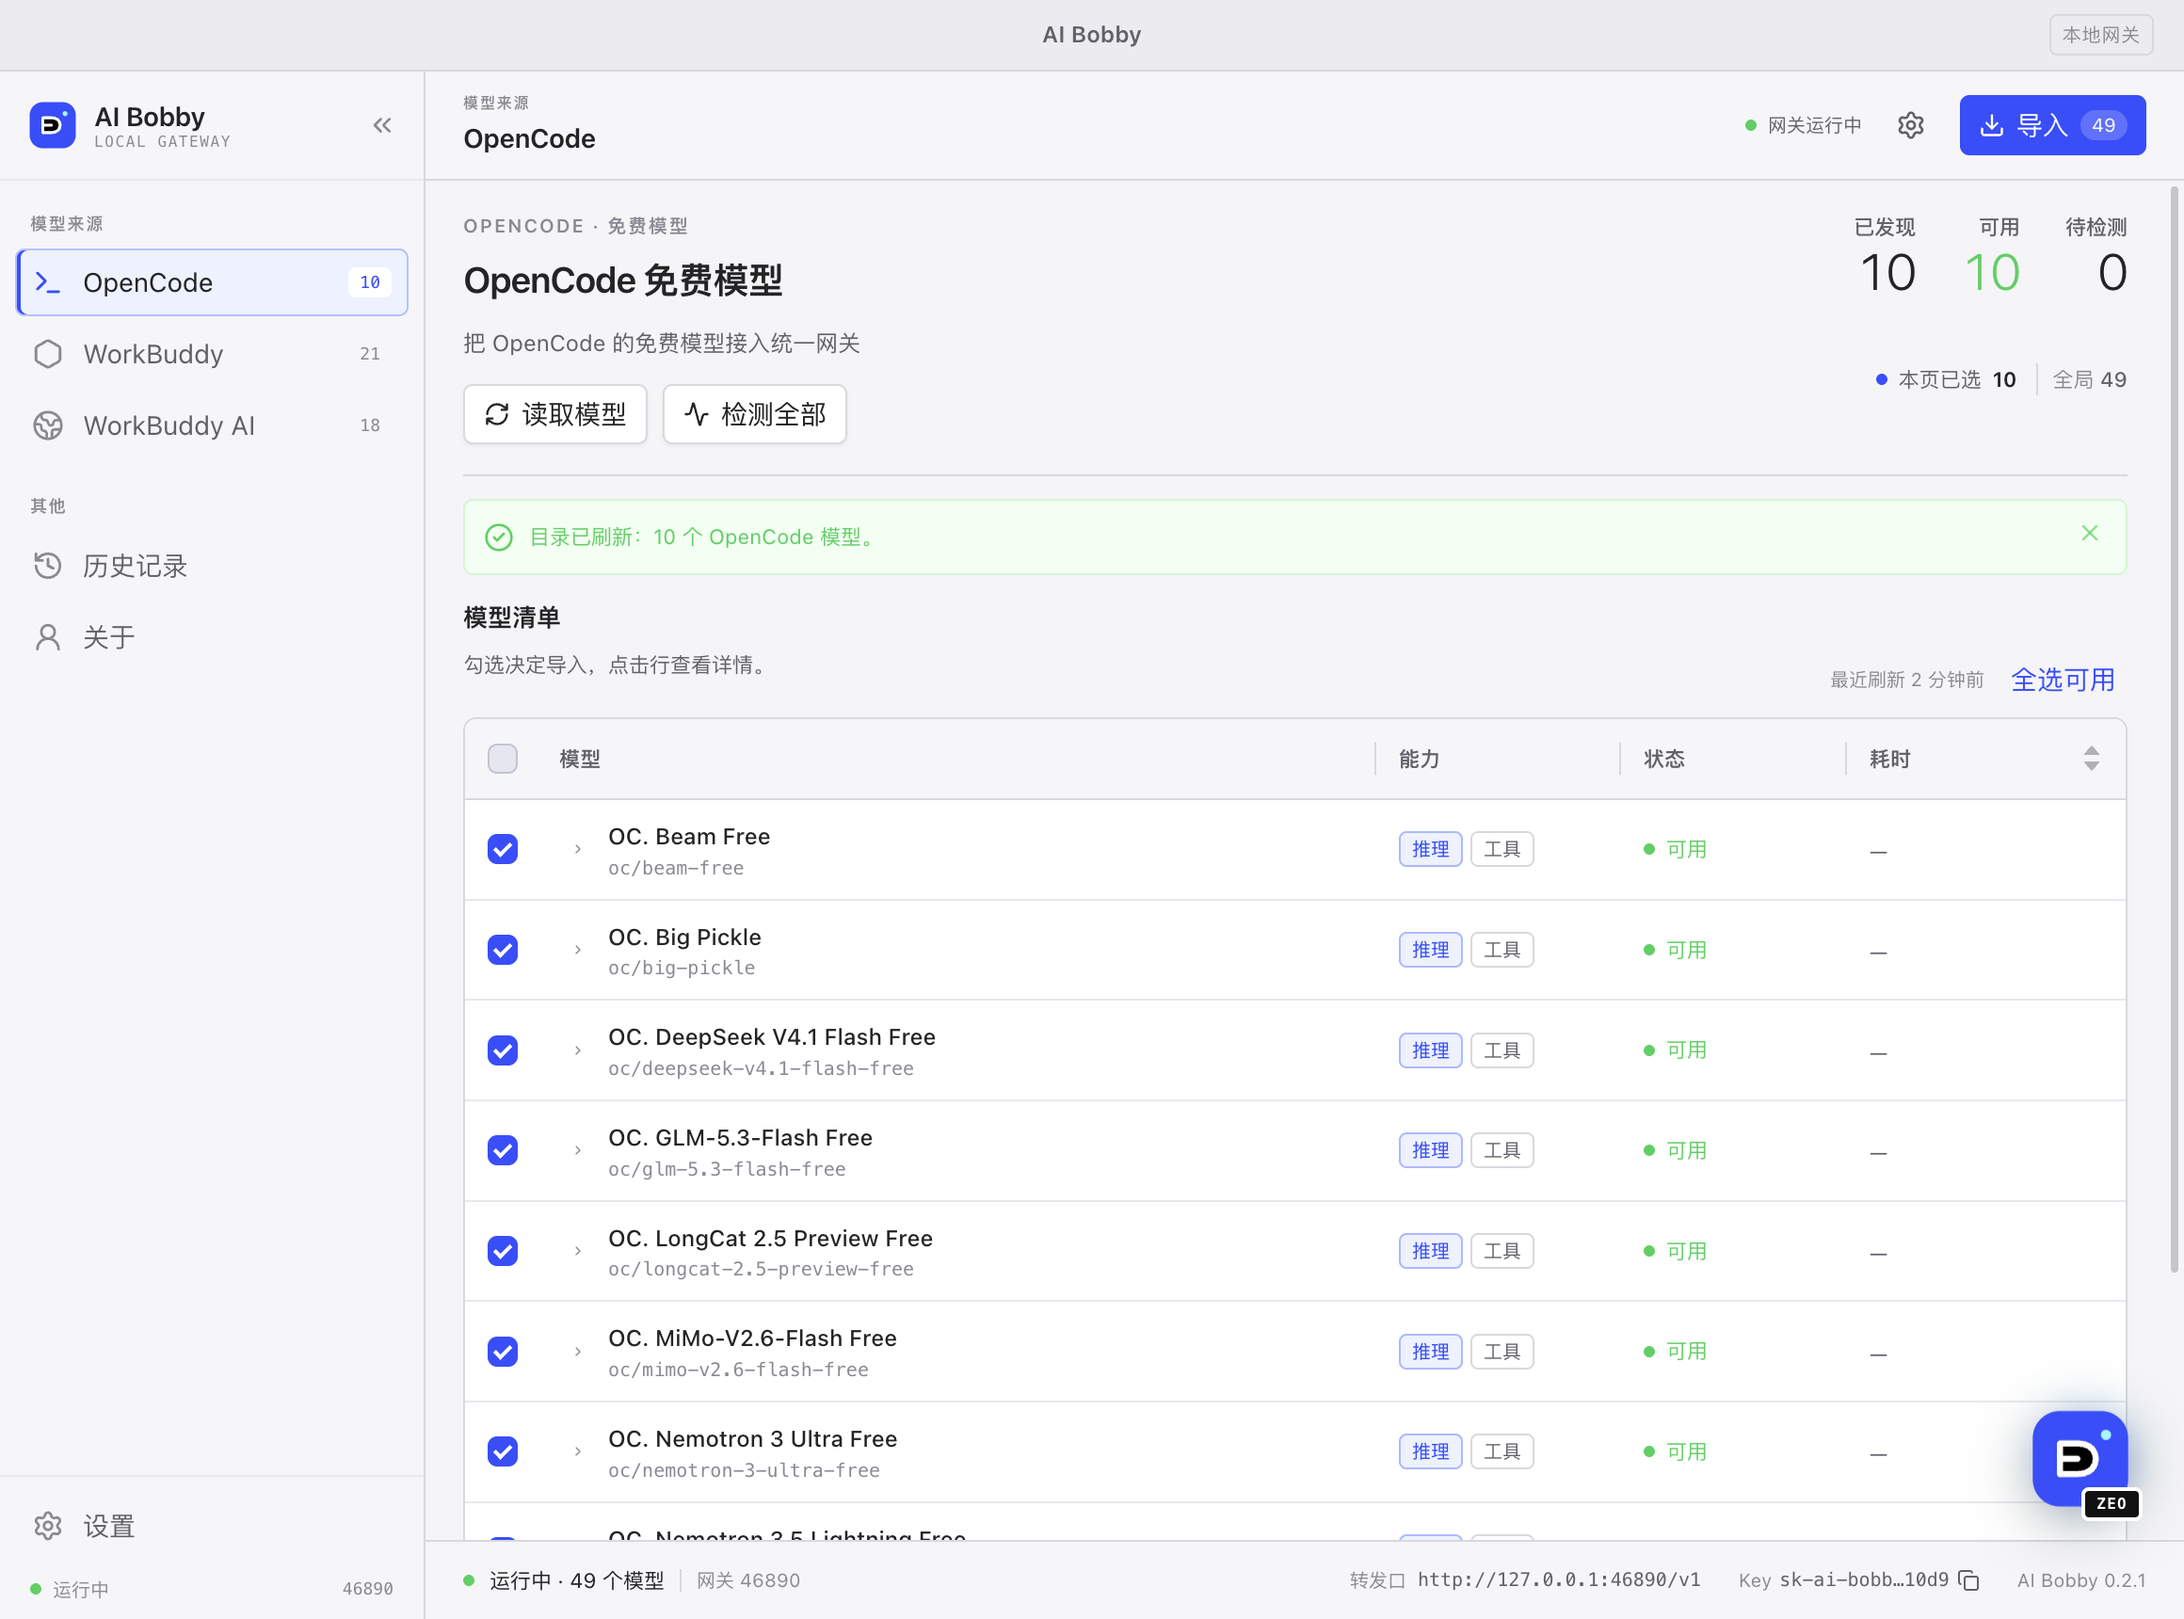
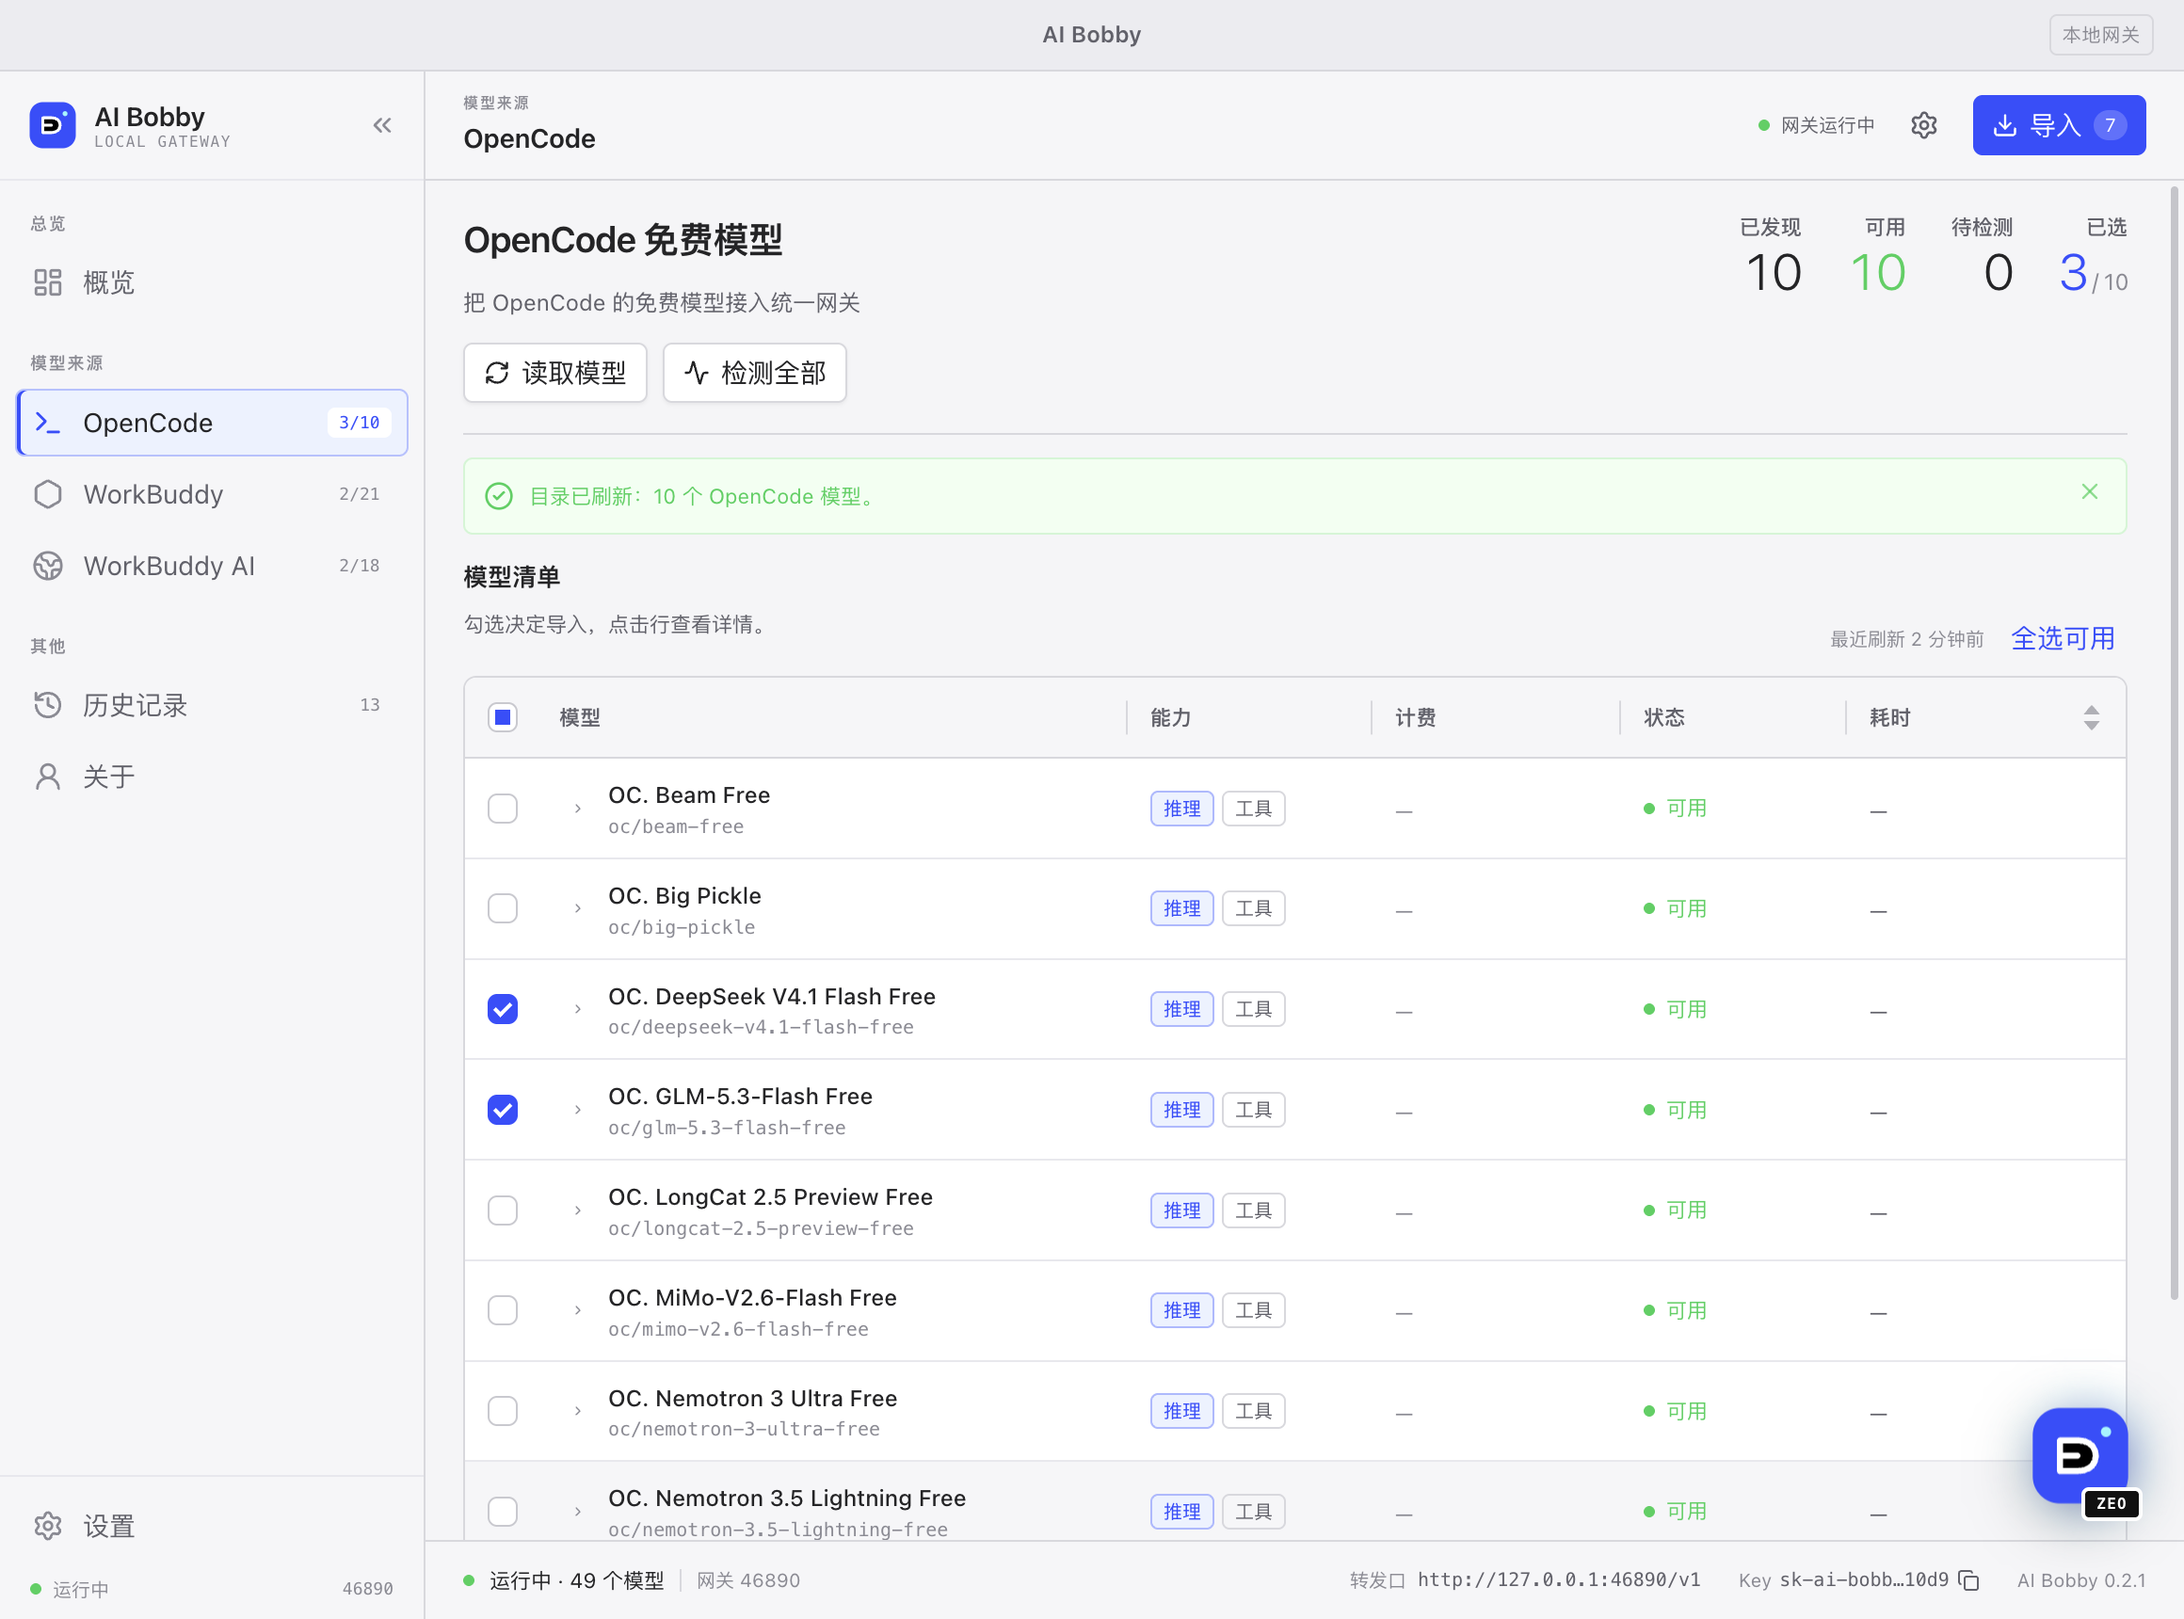
feat(desktop): merge selection metric, sidebar selected/total counts
- Source head shows 已选 (selected/total) in the same metrics row and drops
  the separate 本页已选 / 全局已选 line.
- Sidebar counts become selected/total and update with selection.
- Refresh every affected screenshot, add the overview shot, and sync
  README / PRD / tech / prototype notes.
- Autonomously applied per the user's overnight instruction; easy to revert
  if the acceptance review prefers the previous layout.

diff --git a/apps/desktop/src/renderer/src/components/source-head.tsx b/apps/desktop/src/renderer/src/components/source-head.tsx
@@ -6,12 +6,12 @@ import { metricsFor, type DemoSource, type SourceAction } from '@/lib/demo-data'
 interface SourceHeadProps {
   source: DemoSource
   selectedCount: number
-  globalSelectedCount: number
+  totalCount: number
   probing: boolean
   onAction: (action: SourceAction['id']) => void
 }
 
-export function SourceHead({ source, selectedCount, globalSelectedCount, probing, onAction }: SourceHeadProps) {
+export function SourceHead({ source, selectedCount, totalCount, probing, onAction }: SourceHeadProps) {
   const metrics = metricsFor(source)
 
   return (
@@ -41,34 +41,32 @@ export function SourceHead({ source, selectedCount, globalSelectedCount, probing
         </div>
       </div>
 
-      <div className="flex shrink-0 flex-col items-end gap-2">
-        <dl className="flex items-end gap-6">
-          {source.metricDefs.map(def => {
-            const value = metrics[def.key as keyof typeof metrics] ?? 0
-            return (
-              <div key={def.key} className="text-right">
-                <dt className="text-[11px] text-muted-foreground">{def.label}</dt>
-                <dd
-                  className={cn(
-                    'mt-px text-[27px] font-light leading-none tracking-[-0.03em] tabular-nums text-text',
-                    def.tone === 'accent' && 'text-success',
-                    def.tone === 'warning' && 'text-warning',
-                  )}
-                >
-                  {value}
-                </dd>
-              </div>
-            )
-          })}
-        </dl>
-        <div className="flex items-center gap-1.5 text-[11px] text-muted-foreground">
-          <span className="size-1.5 rounded-full bg-primary" />
-          本页已选 <strong className="font-semibold text-text">{selectedCount}</strong>
-          <span className="ml-1 border-l border-line pl-2 text-faint">
-            全局 <strong className="font-medium text-muted-foreground">{globalSelectedCount}</strong>
-          </span>
+      <dl className="flex shrink-0 items-end gap-6">
+        {source.metricDefs.map(def => {
+          const value = metrics[def.key as keyof typeof metrics] ?? 0
+          return (
+            <div key={def.key} className="text-right">
+              <dt className="text-[11px] text-muted-foreground">{def.label}</dt>
+              <dd
+                className={cn(
+                  'mt-px text-[27px] font-light leading-none tracking-[-0.03em] tabular-nums text-text',
+                  def.tone === 'accent' && 'text-success',
+                  def.tone === 'warning' && 'text-warning',
+                )}
+              >
+                {value}
+              </dd>
+            </div>
+          )
+        })}
+        <div className="text-right">
+          <dt className="text-[11px] text-muted-foreground">已选</dt>
+          <dd className="mt-px text-[27px] font-light leading-none tracking-[-0.03em] tabular-nums text-primary">
+            {selectedCount}
+            <span className="ml-0.5 text-[12px] font-normal text-faint">/ {totalCount}</span>
+          </dd>
         </div>
-      </div>
+      </dl>
     </section>
   )
 }

diff --git a/apps/desktop/src/renderer/src/App.tsx b/apps/desktop/src/renderer/src/App.tsx
@@ -214,13 +214,13 @@ function AppInner() {
     [selected],
   )
 
-  const counts = useMemo<Record<ProviderId, number>>(
+  const counts = useMemo<Record<ProviderId, string>>(
     () => ({
-      opencode: sources.opencode.models.filter(model => model.status === 'available').length,
-      workbuddy: sources.workbuddy.models.filter(model => model.status === 'available').length,
-      wbi: sources.wbi.models.filter(model => model.status === 'available').length,
+      opencode: `${selected.opencode.size}/${sources.opencode.models.length}`,
+      workbuddy: `${selected.workbuddy.size}/${sources.workbuddy.models.length}`,
+      wbi: `${selected.wbi.size}/${sources.wbi.models.length}`,
     }),
-    [sources],
+    [selected, sources],
   )
 
   const navigate = useCallback(
@@ -791,7 +791,7 @@ function AppInner() {
               <SourceHead
                 source={source}
                 selectedCount={selectedSet.size}
-                globalSelectedCount={globalSelected}
+                totalCount={source.models.length}
                 probing={probing}
                 onAction={handleAction}
               />

diff --git a/apps/desktop/src/renderer/src/components/sidebar.tsx b/apps/desktop/src/renderer/src/components/sidebar.tsx
@@ -17,7 +17,7 @@ export type NavPage = ProviderId | 'overview' | 'history' | 'about' | 'settings'
 
 interface SidebarProps {
   page: NavPage
-  counts: Record<ProviderId, number>
+  counts: Record<ProviderId, string>
   historyCount: number
   collapsed: boolean
   gatewayRunning: boolean
@@ -119,7 +119,7 @@ export function Sidebar({
               {!collapsed ? (
                 <>
                   <span className="min-w-0 flex-1 truncate">{item.label}</span>
-                  <span className={cn('min-w-5 rounded bg-surface-2 px-1.5 text-center font-mono text-[9px] leading-4 text-faint', active && 'bg-surface text-primary')}>
+                  <span className={cn('min-w-[34px] rounded bg-surface-2 px-1.5 text-center font-mono text-[9px] leading-4 tabular-nums text-faint', active && 'bg-surface text-primary')}>
                     {counts[item.id]}
                   </span>
                 </>

diff --git a/README.md b/README.md
@@ -7,9 +7,10 @@
 > **状态（2026-10-18）**：`v0.2.1` 已发布；`main` 的 **v0.2.2 界面改版已实现并完成本地验证**，等待你本机验收，尚未发版。
 > 46890 网关（Chat / Responses / Messages）、OpenCode 免费模型、WorkBuddy 双版本 provider、
 > 四个 importer、自动更新与 curl 安装链路均已落地。
-> v0.2.2 改版包含：可收起左侧栏 + 多页导航、主题只在设置页、导入历史与备份恢复、
+> v0.2.2 改版包含：可收起左侧栏 + 多页导航（新增概览页）、主题只在设置页、导入历史与备份合并表格、
 > 关于 ZEO 与音乐、可拖动应用 LOGO 头像、全局可拖动音乐播放器、更新条/设置 UI；
-> 设置页开关已做浅色对比度修复；关于页歌曲优先唤起网易云音乐 App，失败回退网页播放器。
+> 设置页开关已做浅色对比度修复；关于页歌曲优先唤起网易云音乐 App，失败回退网页播放器；
+> 导入抽屉实时预览、模型清单显示计费。
 > **发布需要你本机验收后确认；在此之前不创建 tag/release。**
 > 真实 Codex 0.154、Claude Code 2.1、OpenCode `oc/space-bunny-free` 已在本机跑通；
 > **WorkBuddy 真实账号登录仍需要你本人扫码验证**。
@@ -192,14 +193,14 @@ AI_BOBBY_DATA_DIR=~/.ai-bobby pnpm --filter @ai-bobby/cli status
 
 | | |
 |---|---|
-| ![OpenCode](docs/screenshots/01-opencode-dark.png) | ![History](docs/screenshots/07-history-dark.png) |
-| 左侧栏多页导航 + 模型清单 | 导入历史、diff 与备份恢复 |
+| ![概览](docs/screenshots/12-overview-dark.png) | ![OpenCode](docs/screenshots/01-opencode-dark.png) |
+| 概览：网关、模型源、积分与最近导入 | 左侧栏多页导航 + 模型清单 |
+| ![History](docs/screenshots/07-history-dark.png) | ![Import sheet](docs/screenshots/03-import-light.png) |
+| 导入记录与备份合并表格 | 全局导入：实时预览 + 默认模型 |
 | ![About](docs/screenshots/08-about-dark.png) | ![Update](docs/screenshots/05-update-dark.png) |
 | 关于 ZEO、音乐与赞助 | 非模态更新条 |
-| ![WorkBuddy](docs/screenshots/02-workbuddy-dark.png) | ![Import sheet](docs/screenshots/03-import-light.png) |
-| WorkBuddy 多账号、额度与计费 | 全局导入：dry-run 预览 |
-
-浅色主题：![Light](docs/screenshots/06-opencode-light.png)
+| ![WorkBuddy](docs/screenshots/02-workbuddy-dark.png) | ![Light](docs/screenshots/06-opencode-light.png) |
+| WorkBuddy 多账号、额度与计费 | 浅色主题下的模型清单 |
 
 更多截图：[全局播放器](docs/screenshots/09-music-player-dark.png)、
 [设置页（主题唯一入口）](docs/screenshots/10-settings-dark.png)、
@@ -209,7 +210,8 @@ AI_BOBBY_DATA_DIR=~/.ai-bobby pnpm --filter @ai-bobby/cli status
 ## 导入历史与备份
 
 - 每次实际写入客户端前，importer 会先备份目标文件；每个目标保留最近 5 份。
-- **历史记录**页展示最近 30 天的导入/恢复记录，可按客户端筛选、按路径搜索、查看 diff。
+- **历史记录**页把导入记录与备份合并成一张表：客户端、时间·模型数·状态、配置路径、备份文件。
+  可按客户端筛选、按路径搜索；支持「查看差异」（只读 diff）、「打开目录」（Finder 定位）和「恢复」。
 - 点“恢复”会先备份当前文件，再把历史备份写回；失败不会覆盖当前文件。
 - 记录与备份只在本机：`import-history.json` 为 `0600`，diff 中的 Key/token 会先脱敏。
 - 重复导入且内容未变时返回 `changed:false`，不会新增历史或备份。

diff --git a/handsoff.md b/handsoff.md
@@ -457,3 +457,14 @@ WorkBuddy 上游
 - 新设计稿（待确认）：来源页“已选”并入同一排指标、删除“全局已选”；侧边栏数字改为 `已选/总数`。
 - 文档：PRD FR-UI-2/5/9/12、tech 组件清单同步。
 - 验证：typecheck、64 项测试、desktop build；CDP 实例逐页复核概览/历史/导入预览，无控制台错误。
+
+### 2026-10-19 Round 9：验收前收口（用户授权自主完成）
+
+- 用户睡觉前要求“自主完成所有工作，明早整体验收”。据此把上一轮待确认的设计也落地了（可在验收时回退）：
+  来源页指标合并为“已发现 / 可用 / 待检测 / 已选（已选/总数，主色）”，删除“本页已选 / 全局已选”两行；
+  左侧栏数字改为 `已选/总数`，随勾选实时变化。
+- 概览/历史/导入预览等上一轮已确认 UI 已在 Round 8 落地；本轮补齐指标与侧栏并刷新全部截图：
+  `docs/screenshots/01–04、06–08、10–12`，新增 `12-overview-dark.png`；README 截图表加入概览。
+- 文档：PRD FR-UI-2/3/9/12、tech 组件清单、README 改版说明与历史页说明、prototype README 同步。
+- 验证：desktop typecheck、27 项测试、build；CDP 复核指标/侧栏、`openDirectory`、`getImportedModelIds`；
+  应用已重启（dev、46890）供明早验收。

diff --git a/prototype/desktop/README.md b/prototype/desktop/README.md
@@ -18,7 +18,8 @@ python3 -m http.server 8765 --bind 127.0.0.1
 - 多页结构：**概览**、三个模型来源、历史记录、关于、设置。
 - 概览页：网关状态、模型源数量、积分、最近一次导入四张指标卡；三个来源入口卡；最近 3 条导入记录。
 - 主界面去掉主题切换；系统/浅色/深色只放在设置页。
-- 来源页的“本页已选 / 全局已选”与“已发现 / 可用 / 待检测”同一字号与排版，当前页选中数用主色强调。
+- 来源页把“已选（已选/总数）”并入“已发现 / 可用 / 待检测”同一排，用主色强调；删除“全局已选”。
+- 左侧菜单数字显示 `已选/总数`，随勾选实时变化。
 - 右下角应用 LOGO 动态头像（保留 ZEO 标签装饰），可拖动；点击进入关于页。
 - 关于页：ZEO 个人 IP、项目介绍、音乐模块（两张最新专辑 + 最新/最热歌曲 tab + 右下角浮动 iframe 播放器）、支付宝/微信/更多方式赞助码。
 - 音乐播放在点击歌曲后出现于右下角，作为全局单例播放器；可拖动、可关闭，不阻塞页面。

diff --git a/docs/prd.md b/docs/prd.md
@@ -343,7 +343,7 @@ AI Bobby 是一个**只监听本机的 AI 服务网关桌面应用**：
 **FR-UI-3 命令区**
 
 - 左：来源标题 + 一句说明 + `读取模型` / `检测全部`（WorkBuddy 为 `刷新目录` / `刷新额度`）。
-- 右：当前来源的统计（已发现/可用/待检测/账号数）+ `导入` 按钮。
+- 右：当前来源的统计（已发现/可用/待检测/账号数/已选），`已选` 与其它指标同排、用主色显示 `已选/总数`。
 - WorkBuddy / WBI：账号条（昵称、额度、启用、添加账号）。
 
 **FR-UI-4 模型表格**
